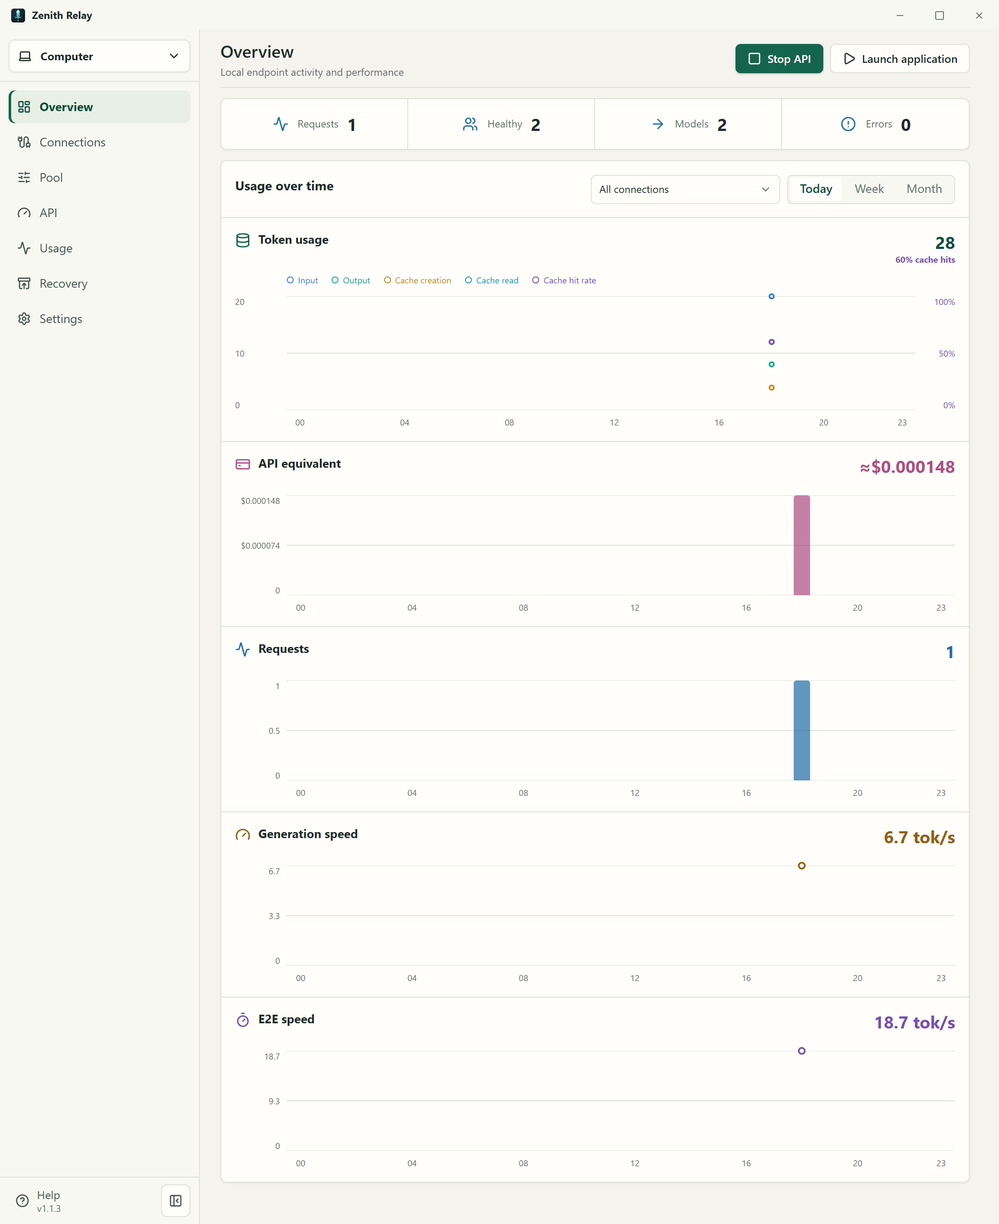
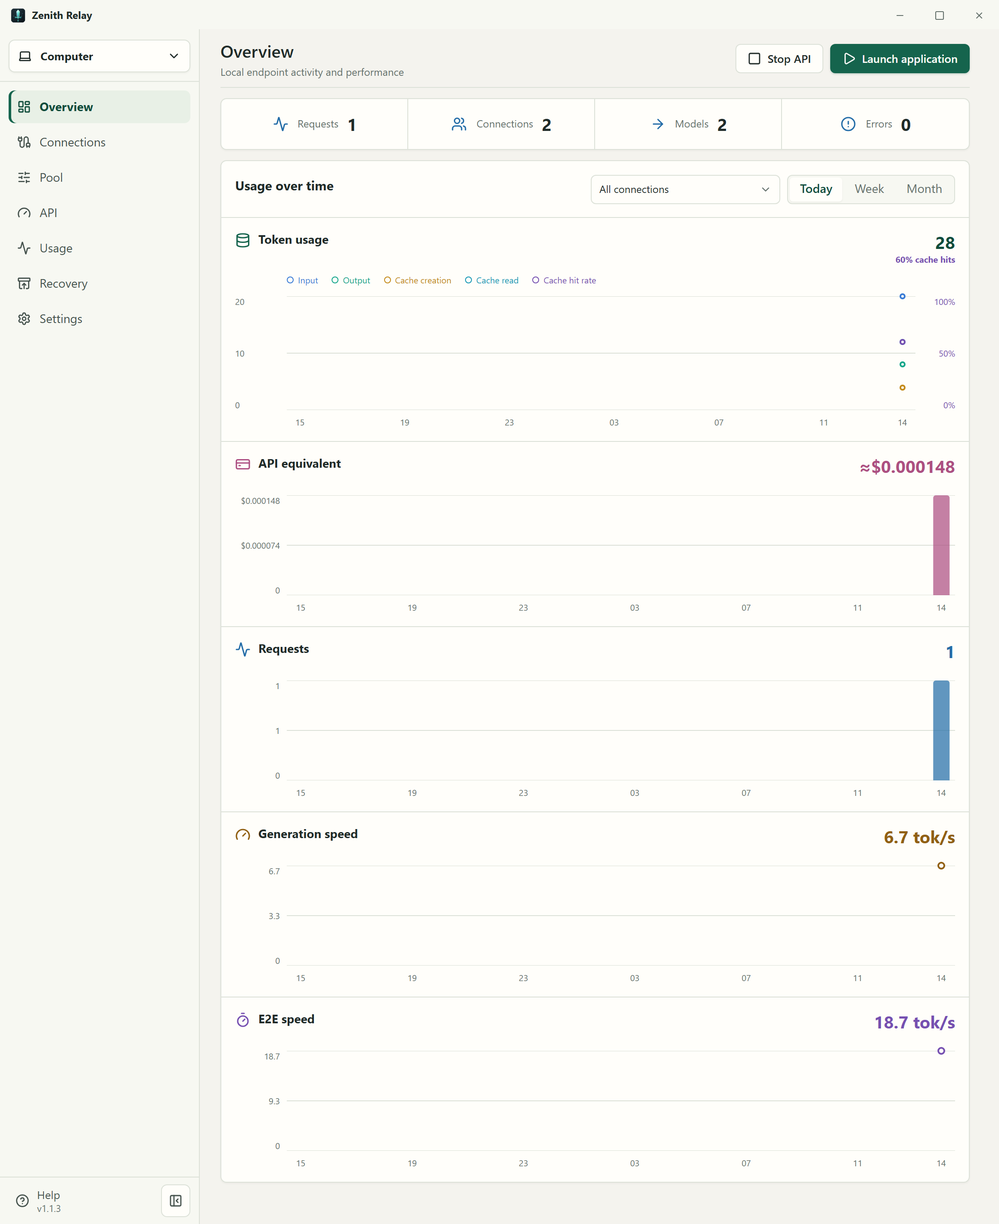
docs(relay): match 1.1.3 notes to the shipped cache lifetime
Describe the approximate cache time beside usage tokens, refresh the README screenshots, and point the e2e commands at the split suites.

diff --git a/docs/releases/CHANGELOG.md b/docs/releases/CHANGELOG.md
@@ -6,15 +6,39 @@ release entries are kept concise and link to the corresponding tag.
 
 ## [Unreleased]
 
-## [1.1.3] - 2026-09-27
+## [1.1.3] - 2026-09-30
 
 <!-- relay-notes:en -->
 
 Zenith Relay 1.1.3 keeps a ChatGPT account available after a generic provider
-403, restores Excel tool history, shows a reported cache lifetime in usage, and
+403, restores Excel tool history, shows an approximate cache lifetime beside usage tokens, and
 uses the same compact controls across the launcher.
 
 ### Changed
+
+- ChatGPT sign-in opens in a Relay window instead of the system browser. The
+  account proxy is used for that window and for the token exchange. A live
+  ChatGPT session finishes sign-in by itself; otherwise it is finished in the
+  window. Saved login notes are not filled in. The lock inside the new-sign-in
+  button chooses a saved HTTP proxy for that first login; it does not pick one
+  at random.
+
+- Excel / Basis Points tool instructions follow adapter v0.2.8. Examples use
+  only tools allowed in the current request and match their declared type and
+  schema, including the two JSON layers for function arguments. A separate
+  developer reminder repeats the transport rule and keeps custom-tool input
+  raw. The one-shot retry hint is appended after the prepared input, before a
+  compaction trigger. Structured `text.format` is rejected instead of being
+  dropped. Ordinary `service_tier` values `auto`, `default`, and `standard`
+  stay on this route; Fast still does not. Image upload from the upstream
+  plugin is not copied.
+
+- An image stream that ends incomplete, failed, or without a real completion
+  is reported as a failure instead of a finished image.
+
+- A failed provider-balance refresh keeps the last amount. The selected API
+  overview marks it **Not refreshed**. A pool card keeps the amount without
+  that label; the reason stays in diagnostics.
 
 - The API tool optimization switch now says that schemas open on demand for a
   normal Responses route, while Excel and other routes still send the full list.
@@ -223,9 +247,12 @@ uses the same compact controls across the launcher.
   cannot use an old desktop account/source route while its membership, endpoint,
   proxy, login or permissions are being replaced; already started work may finish.
 
-- Usage details show cache lifetimes only when the provider reports them and
-  mark missing values clearly. OpenAI's documented minimum for GPT-5.6 and later
-  appears separately from usage data; Relay does not estimate a live expiry.
+- Usage details put an approximate cache lifetime in parentheses beside the
+  cache-read count, or beside the cache-write count when there is no read.
+  A window reported by the provider is used as given. GPT-5.6 and later fall
+  back to OpenAI's documented 30-minute minimum when the response omits one.
+  Other missing windows stay marked unreported. The note is estimated from that
+  request's latest cache write or read; it is not a live provider expiry.
 
 - Catalog ordering now keeps model families from the same numbered generation
   together and uses stable family IDs for their order. A later release date
@@ -616,9 +643,33 @@ uses the same compact controls across the launcher.
 
 <!-- relay-notes:ru -->
 
-Zenith Relay 1.1.3 оставляет аккаунт ChatGPT доступным после общего отказа провайдера 403, восстанавливает историю инструментов Excel, показывает сообщённый срок записи кэша в использовании и применяет те же компактные переключатели по всему приложению.
+Zenith Relay 1.1.3 оставляет аккаунт ChatGPT доступным после общего отказа провайдера 403, восстанавливает историю инструментов Excel, показывает примерный срок кэша рядом с токенами использования и применяет те же компактные переключатели по всему приложению.
 
 ### Изменения
+
+- Вход в ChatGPT открывается в окне Relay, а не в системном браузере. Прокси
+  аккаунта используется и для этого окна, и для обмена токена. Действующая
+  сессия завершает вход сама; иначе вход заканчивается в окне. Сохранённые
+  заметки входа сами не подставляются. Замок внутри кнопки нового входа
+  выбирает сохранённый HTTP-прокси для первого входа и не подставляет
+  случайный.
+
+- Инструкции инструментов Excel / Basis Points следуют адаптеру v0.2.8.
+  Примеры используют только инструменты текущего запроса и совпадают с их
+  типом и схемой, включая два слоя JSON для аргументов функции. Отдельное
+  напоминание разработчика повторяет правило транспорта и оставляет ввод
+  custom-инструмента как есть. Подсказка одноразового повтора добавляется
+  после подготовленного ввода, до триггера сжатия. Структурный `text.format`
+  отклоняется, а не отбрасывается. Обычные значения `service_tier` `auto`,
+  `default` и `standard` остаются на этом маршруте; Fast по-прежнему нет.
+  Загрузка изображений из внешнего плагина не копируется.
+
+- Поток изображения, который закончился неполным, с ошибкой или без реального
+  завершения, записывается как ошибка, а не как готовое изображение.
+
+- Неудачное обновление баланса провайдера сохраняет последнюю сумму. Обзор
+  выбранного API помечает её **Не обновлено**. Карточка пула оставляет сумму
+  без этой пометки; причина остаётся в диагностике.
 
 - Переключатель оптимизации инструментов теперь поясняет, что схемы открываются по запросу на обычном маршруте Responses, а Excel и остальные маршруты по-прежнему отправляют полный список.
 
@@ -684,7 +735,7 @@ Zenith Relay 1.1.3 оставляет аккаунт ChatGPT доступным 
 
 - Выбор в автоматическом режиме использует нормализованную локальную загрузку. Физический участник делит ёмкость между псевдонимами протоколов. Повторы используют один бюджет запроса через транспорты и исправления. Неопределённый результат провайдера не повторяется молча. Обязательная пауза провайдера устанавливается до того, как слот станет доступен другому запросу. У API-источников сервера больше нет второй, отдельно отсчитываемой блокировки шторма вне ротации пула. Ожидающая отправка не может использовать старый маршрут аккаунта или источника приложения, пока меняются его участие, адрес, прокси, вход или разрешения. Уже начатая работа может завершиться.
 
-- Сведения об использовании показывают срок кэша только если его сообщил провайдер, а отсутствующее значение явно помечено. Документированный минимум OpenAI для GPT-5.6 и новее показывается отдельно от данных использования. Relay не оценивает живой остаток срока.
+- В сведениях об использовании примерный срок кэша стоит в скобках рядом с чтением кэша, а если чтения нет — рядом с записью. Окно, которое сообщил провайдер, используется как есть. Для GPT-5.6 и новее при отсутствии окна берётся документированный минимум OpenAI в 30 минут. Остальные пропуски помечаются как несообщённый срок. Оценка считается от последней записи или чтения кэша в этом запросе и не является живым сроком у провайдера.
 
 - Порядок каталога держит семейства одной номерной линейки вместе и использует устойчивые идентификаторы семейств. Более поздняя дата выпуска сама по себе больше не поднимает GPT-6 Sol выше GPT-6 Astra.
 
@@ -1238,7 +1289,8 @@ account pool.
 
 - Initial Zenith Codex desktop release.
 
-[Unreleased]: https://github.com/F0RLE/zenith-relay/compare/v1.1.2...release/1.1.3
+[Unreleased]: https://github.com/F0RLE/zenith-relay/compare/v1.1.3...HEAD
+[1.1.3]: https://github.com/F0RLE/zenith-relay/compare/v1.1.2...v1.1.3
 [1.1.2]: https://github.com/F0RLE/zenith-relay/releases/tag/v1.1.2
 [1.1.1]: https://github.com/F0RLE/zenith-relay/releases/tag/v1.1.1
 [1.1.0]: https://github.com/F0RLE/zenith-relay/releases/tag/v1.1.0

diff --git a/docs/project/PLANNING.md b/docs/project/PLANNING.md
@@ -144,13 +144,14 @@ participant metadata prefetch runs during management polling or catalog export.
 Native Codex cards retain account-owned transport controls and instructions;
 model labels and semantic capabilities use the same resolver as API sources.
 Codex Ultra is a client-side orchestration mode, not an upstream reasoning
-effort. The desktop projection reads the installed Codex's bundled model
-catalog offline; an exact model card may expose Ultra only when the pool can
-route Max and any specified subagent effort. A matching native ChatGPT account
-card can also provide this evidence to the gateway catalog. Provider model
-names, a Messages-to-Responses bridge, and a generic Max declaration do not
-by themselves enable Ultra. Other reasoning levels remain reference and route
-constrained; Codex's own toggle still controls whether Ultra is visible.
+effort. The desktop reads the installed Codex bundled model catalog offline
+and supplies those exact cards to both the managed file and the live gateway
+catalog. An exact model card may expose Ultra only when the pool can route
+Max and any specified subagent effort. A matching native ChatGPT account card
+can also provide this evidence. Provider model names, a Messages-to-Responses
+bridge, and a generic Max declaration do not by themselves enable Ultra.
+Other reasoning levels remain reference and route constrained; Codex's own
+toggle still controls whether Ultra is visible.
 
 Missing reference fields use Relay's common text/image, text-output, function
 tool and structured-output baseline. Explicit reference exclusions remain in
@@ -203,7 +204,7 @@ missing from inventory without moving discovered models. `gateway.modelCatalog`
 provides advisory company/family metadata for the complete member inventory and
 saved rules/prices, so excluded models keep their group. It never grants routes;
 older snapshots fall back to metadata on operational model rows. Member editors open on
-model selection, with source prices and secondary settings on separate tabs.
+model selection, with source prices and secondary settings on separate tabs. A later model missing from an exact saved allow/deny snapshot stays enabled unless it was explicitly excluded; editors persist only exclusions, and a `*` rule still limits the set.
 Model Rules are operational; source prices remain in the source/member editor.
 
 ## API source statistics
@@ -709,11 +710,11 @@ request no longer includes their catalog. A declared tool excluded by
 `tool_choice` is rejected as a choice error, not as a missing tool. Encrypted
 `agent_message` content is rejected before dispatch. The upstream returns
 completed JSON, so requested SSE is buffered and emitted only after completion.
-Images and explicit nonstandard service tiers are incompatible with this route;
+Images and explicit nonstandard service tiers are incompatible with this route. `auto`, `default`, and `standard` are ordinary tiers and are omitted from the upstream body. Structured `text.format` is rejected rather than dropped. Developer instructions follow the v0.2.8 adapter: examples are generated only for tools allowed in the request and match the declared function or custom shape, including the two JSON layers of a function payload. A second developer message repeats the transport reminder and tells each custom tool to keep its input raw. The one malformed-relay retry hint is appended after that prepared input, before a compaction trigger.
 opaque `previous_response_id` continuation is rejected before dispatch rather
 than silently removed. Completed and incomplete buffered responses retain
 their respective terminal status in JSON and synthesized SSE.
-This route does not publish native Codex Fast/Ultrafast metadata. Relay does
+The Codex picker still offers the model's normal Fast and Ultrafast choices. A non-standard speed uses the account's normal Responses endpoint instead of this route. Relay does
 not claim incremental streaming or provider acceptance without a live request.
 
 The adapter registry supports four native contracts and twelve conversions:
@@ -841,12 +842,15 @@ actual upstream cache contract without borrowing another protocol's semantics.
 Explicit 5m/1h prices in a source catalog remain visible in source pricing
 regardless of the catalog endpoint; an untagged cache-write price does not
 establish a TTL. Displaying a price does not establish route capability.
-Usage history shows cache-read and cache-write counters separately. An exact
-provider-reported cache-write window is shown as reported; when usage omits the
-window, the UI marks it as unreported. Model documentation is separate from
-usage evidence: GPT-5.6 and later have an OpenAI-documented minimum `30m` after
-the latest write or reuse, shown only as a note. Relay cannot calculate a live
-remaining time or exact expiry without cache identity and reuse events.
+Usage history shows cache-read and cache-write counters separately. When either
+counter is present, request details add an approximate remaining lifetime beside
+the cache-read count, or beside the cache-write count when there is no read.
+An exact provider-reported cache-write window is used. When usage omits the
+window, GPT-5.6 and later fall back to the documented OpenAI minimum of 30
+minutes after that request's latest write or read, and other models stay
+unreported. The estimate uses only that request's cache touch. It is not a
+provider cache identity, a live expiry, or proof that a later request will hit
+the cache.
 
 LiteLLM is the external reference price catalog. Cached startup is nonblocking;
 conditional refresh runs at startup and then the cache TTL (currently 24 hours)

diff --git a/docs/help/en/README.md b/docs/help/en/README.md
@@ -104,7 +104,8 @@ Use **Refresh balance** on a pool card or **Refresh** in the selected API's
 overview to request fresh data. **No balance API** means Relay could not find
 a supported way to read statistics; **Stats access denied** means access
 to those statistics was refused. Model requests may still work in either
-case. A failed refresh retains the last amount with **Not refreshed**.
+case. A failed refresh keeps the last amount. The selected API overview marks
+it **Not refreshed**; a pool card keeps the amount without that label.
 Reopening the page may display the last value from this running session without
 contacting the provider. Use **Refresh balance** to request a new reading.
 The warning identifies a stale or failed reading, not a fresh balance; restarting
@@ -128,9 +129,31 @@ is not included in these estimates.
 
 ### Accounts and quota
 
-In local mode, add an account by signing in through the browser or importing
-your own file. **Connections** also manages proxies. A saved account does not
-have to participate in the pool.
+In local mode, add an account through Relay's sign-in window or by importing
+your own file. The sign-in button opens that window instead of the system
+browser. When the account already has a proxy, both the sign-in page and the
+token exchange use it. The common proxy is used only when the account has none
+and does not bypass it. **Connections** also manages proxies. A saved account
+does not have to participate in the pool.
+The lock inside **Open sign-in window**, on its right side, appears only for a new
+sign-in, not when signing in again. It starts that sign-in through a saved
+proxy. Left-click opens the list, and right-click repeats the previous choice.
+If there is no previous choice, or that proxy has been removed, the list opens
+again. Relay does not pick a random proxy, because a ChatGPT session is tied
+to the exit address. The same proxy is used for the sign-in window, the token
+exchange, and the new account. This sign-in needs an HTTP proxy.
+
+If a ChatGPT session in the window is still active, sign-in finishes by itself.
+Otherwise finish it in that window: email, password, and 2FA notes are not
+filled in. The sign-in link can be copied and opened separately. The window
+cannot use an `https://` proxy; sign-in needs an HTTP proxy.
+An invalid login token does not block import when the file already contains an
+account id. Relay saves the record, and you can sign in after importing it.
+
+If the import includes an email, phone, password, or 2FA secret, Relay stores
+them with that account's credentials. The sign-in window shows these notes
+under the two actions, and the account card can open the same notes. You can
+edit them or type your own. A 2FA secret also shows the current code.
 
 **Refresh** checks the provider's account state and quota. It does not add
 quota or reset its window. The provider defines the window length, remaining
@@ -369,6 +392,8 @@ the OpenAI group does not replace the shared reference and Relay rules for other
 In **Pool member policy → Models**, a switch allows the model for that
 specific account or API. It is permission, not a quota indicator. Search and
 expandable groups help locate models.
+A model that was not in the saved exact list turns on by itself. Only a model
+that was explicitly switched off stays off. A `*` rule still limits the set.
 
 The pool's **Model Rules** tab enables or disables a model for the whole pool.
 It also controls model and group order, available reasoning modes, and
@@ -420,10 +445,13 @@ fields price cache creation; they do not enable request caching or prove that
 the source accepts a cache-control option.
 
 Request details show cache reads and writes from the provider's usage response.
-Relay shows a write lifetime only when that response reports one; otherwise it
-marks the lifetime as unreported. Model documentation is a separate note. For
-GPT-5.6 and later, OpenAI documents a 30-minute minimum after the latest write
-or reuse, but usage does not provide a live remaining-time countdown.
+When either counter is present, an approximate remaining time appears in
+parentheses beside the cache read, or beside the cache write when there is no
+read. A lifetime reported by the provider is used as given. If the response
+omits it, GPT-5.6 and later use OpenAI's documented 30-minute minimum after
+that request's latest cache write or read. Other models stay marked as an
+unreported window. This is an estimate from that request, not a live provider
+expiry and not proof that the next request will read the cache.
 
 An account's **Settings** includes **Drain** and **Purchase
 cost, USD**. The first stops new assignments; the second is only for the
@@ -487,6 +515,12 @@ are translated into the calling format. If the application requests a stream,
 SSE events arrive after the provider completes the response, without
 incremental output during generation. Images and explicitly requested fast
 speeds cannot use this transport; they need another compatible route.
+Ordinary speed labels `auto`, `default`, and `standard` are accepted and are
+not sent upstream. A structured `text.format` (`json_object` or `json_schema`)
+is rejected before generation instead of being ignored. Tool instructions
+include an example only for a tool this request allows, using that tool's
+declared type: function arguments stay a JSON object inside the outer JSON
+string, and only a custom tool receives raw text.
 Continuation by `previous_response_id` is also unsupported: Relay rejects it
 explicitly rather than losing context. Send complete history without this
 field or use another route.

diff --git a/CONTRIBUTING.md b/CONTRIBUTING.md
@@ -204,12 +204,12 @@ For a release UI or layout change, run the focused Playwright suites as well:
 
 ~~~powershell
 cd src
-bunx playwright test tests/e2e/visual-matrix.spec.ts
-bunx playwright test tests/e2e/operations.spec.ts
+bunx playwright test tests/e2e/visual-matrix
+bunx playwright test tests/e2e/operations
 bun run screenshots
 ~~~
 
-The visual matrix is the responsive/appearance gate; the operations suite is
+The visual matrix is the responsive/appearance gate. The operations folder is
 the interaction and state-transition gate. The screenshots command regenerates
 only the committed `docs/screenshots` assets.
 
